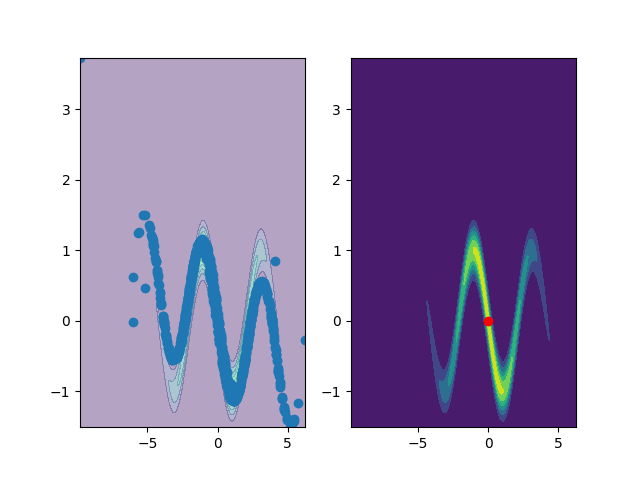
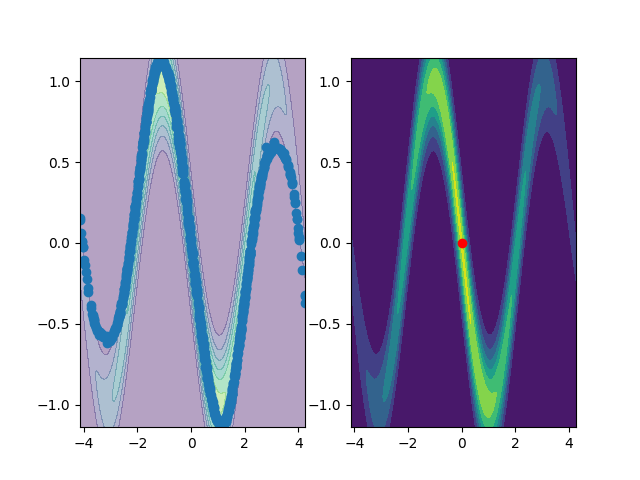
update

diff --git a/rala/laplace.py b/rala/laplace.py
@@ -8,13 +8,14 @@ import jax
 import jax.numpy as jnp
 import jax.scipy as jsp
 import jax.tree_util as tree_util
-from diffrax import Dopri5, ODETerm, diffeqsolve
+from diffrax import Dopri5, ODETerm, PIDController, diffeqsolve
 from jax.flatten_util import ravel_pytree
 
 
 class LaplaceMethod(Enum):
     STANDARD = "standard"
     RIEMANN = "riemann"
+    MONGE = "monge"
     FISHER = "fisher"
 
 
@@ -44,7 +45,13 @@ def sample_from_gaussian(
 
 @partial(jax.jit, static_argnames=("logp_fn_flat", "dim"))
 @partial(jax.vmap, in_axes=(0, None, None, None), out_axes=0)
-def rexpmap(sample: jax.Array, theta_map: jax.Array, logp_fn_flat: Callable, dim: int, dt: float = 0.05):
+def rexpmap(
+    sample: jax.Array,
+    theta_map: jax.Array,
+    logp_fn_flat: Callable,
+    dim: int,
+    dt: float = None,
+):
     # Exponential map for Riemann
     def geodesic_ode(t, y, args):
         c = y[:dim]
@@ -66,7 +73,15 @@ def rexpmap(sample: jax.Array, theta_map: jax.Array, logp_fn_flat: Callable, dim
     term = ODETerm(geodesic_ode)
     solver = Dopri5()
 
-    solution = diffeqsolve(term, solver, t0=0, t1=1, dt0=dt, y0=y0)
+    solution = diffeqsolve(
+        term,
+        solver,
+        t0=0,
+        t1=1,
+        dt0=dt,
+        stepsize_controller=PIDController(rtol=1e-3, atol=1e-6),
+        y0=y0,
+    )
 
     # Return the position at t=1 (the mapped sample)
     return solution.ys[-1, :dim]
@@ -79,7 +94,7 @@ def fexpmap(
     theta_map: jax.Array,
     metric_fn: callable,
     dim: int,
-    dt: float = 0.05,
+    dt: float = None,
 ):
     def geodesic_ode(t, y, args):
         theta = y[:dim]
@@ -124,7 +139,15 @@ def fexpmap(
     # We use the Dormand-Prince 5/4 method for the corresponding ODE
     term = ODETerm(geodesic_ode)
     solver = Dopri5()
-    solution = diffeqsolve(term, solver, t0=0, t1=1, dt0=dt, y0=y0)
+    solution = diffeqsolve(
+        term,
+        solver,
+        t0=0,
+        t1=1,
+        dt0=dt,
+        stepsize_controller=PIDController(rtol=1e-3, atol=1e-6),
+        y0=y0,
+    )
 
     return solution.ys[-1, :dim]
 
@@ -135,6 +158,7 @@ def laplace_approximation(
     key: jax.Array,
     num_samples: int,
     method: LaplaceMethod = LaplaceMethod.STANDARD,
+    metric_fn: callable = None,
 ) -> tuple[nnx.State, nnx.GraphDef, jax.Array]:
     state = nnx.state(model)
     graphdef = nnx.graphdef(model)
@@ -158,12 +182,15 @@ def laplace_approximation(
     match method:
         case LaplaceMethod.RIEMANN:
             samples = rexpmap(samples, theta_map, log_p_flat, dim)
-        case LaplaceMethod.FISHER:
+        case LaplaceMethod.MONGE:
 
             def metric_fn(theta):
                 grad_log_p = jax.grad(log_p_flat)(theta)
                 return jnp.eye(dim) + jnp.outer(grad_log_p, grad_log_p)
 
+            samples = fexpmap(samples, theta_map, metric_fn, dim)
+        case LaplaceMethod.FISHER:
+            assert metric_fn is not None, "`metric_fn` should be provided when `FISHER` is used"
             samples = fexpmap(samples, theta_map, metric_fn, dim)
 
     # Apply jax.vmap to unravel so we can unravel multiple samples at the same time

diff --git a/examples/sampling.py b/examples/sampling.py
@@ -1,8 +1,10 @@
 import pathlib
 from enum import Enum
+from functools import partial
 
 import jax
 import jax.numpy as jnp
+import jax.scipy as jsp
 import jax.scipy.optimize as jspo
 import matplotlib.pyplot as plt
 import typer
@@ -12,7 +14,7 @@ from rala.models import LogPosterior
 from rala.utils import plot_potential, show_kitty
 
 
-def banana_log_density(x, b: float = 4):
+def banana_log_density(x, b: float = 20):
     x_sq = x * x
     log_p = x_sq[0] + (x[1] - b * (x_sq[0] - 1)) ** 2
     return -log_p
@@ -22,6 +24,23 @@ def squiggle_log_density(x, a: float = 1.5, cov: jax.Array = jnp.array([[5, 0], 
     y = jnp.array([x[0], x[1] + jnp.sin(a * x[0])])
     y_inv = jnp.linalg.solve(cov, y)
     return -jnp.dot(y, y_inv) / 2
+
+
+def to_hausdorff(logp_fn: callable):
+    # Compute the gradients of logp_fn
+    grad_logp_fn = jax.grad(logp_fn)
+
+    # Compute the corresponding metric
+    def metric_fn(theta):
+        grad = grad_logp_fn(theta)
+        (dim,) = grad.shape
+        return jnp.eye(dim) + jnp.outer(grad, grad)
+
+    def logp_hausdorff(theta):
+        _, logdet = jnp.linalg.slogdet(metric_fn(theta))
+        return logp_fn(theta) - 0.5 * logdet
+
+    return logp_hausdorff, metric_fn
 
 
 def plot_samples(samples: jax.Array, x_map: jax.Array, logp_fn: callable, filename: str = None):
@@ -60,12 +79,16 @@ app = typer.Typer(pretty_exceptions_enable=False)
 @app.command()
 def main(
     dist: DistType,
-    epochs: int = 50,
     seed: int = 42,
     num_samples: int = 1000,
     method: LaplaceMethod = LaplaceMethod.RIEMANN,
+    use_hausdorff: bool = False,
 ):
     logp_fn, dim = dist.get()
+
+    if use_hausdorff:
+        # Use Hausdorff's base measure
+        logp_fn, metric_fn = to_hausdorff(logp_fn)
 
     # Find MAP by maximizing the log-likelihood
     x_map = jax.jit(jspo.minimize, static_argnames=("fun", "method"))(
